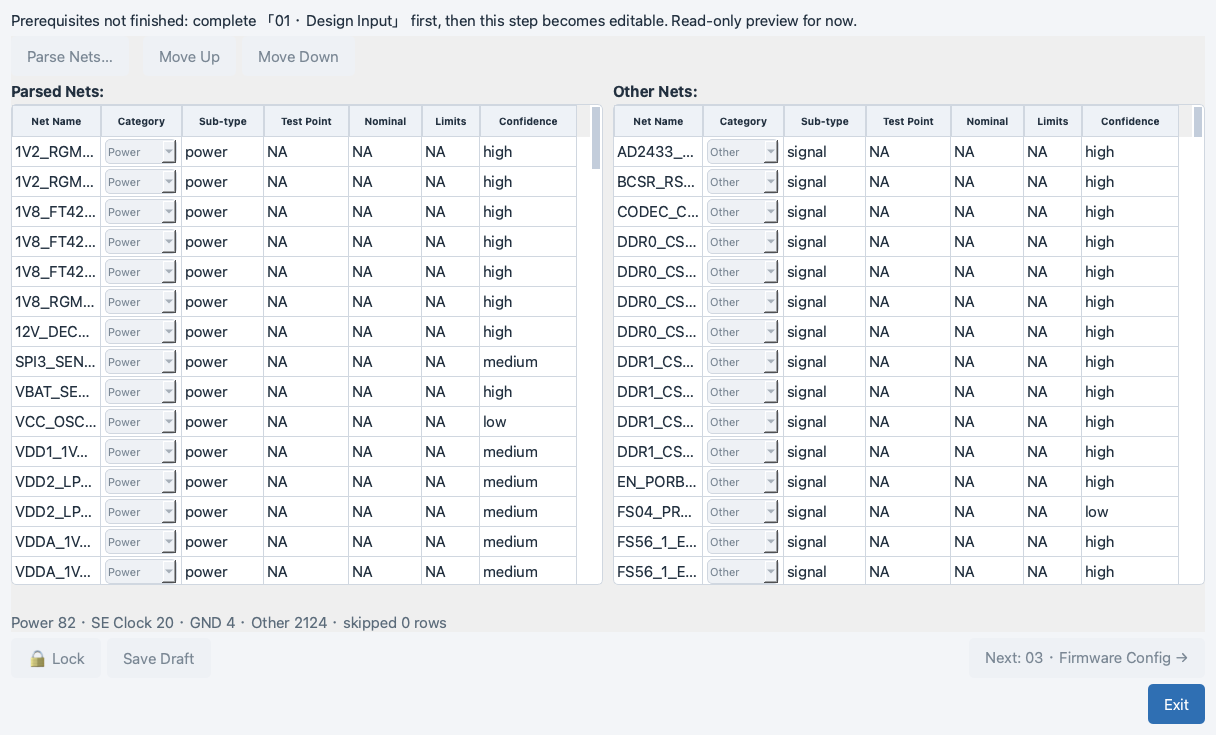
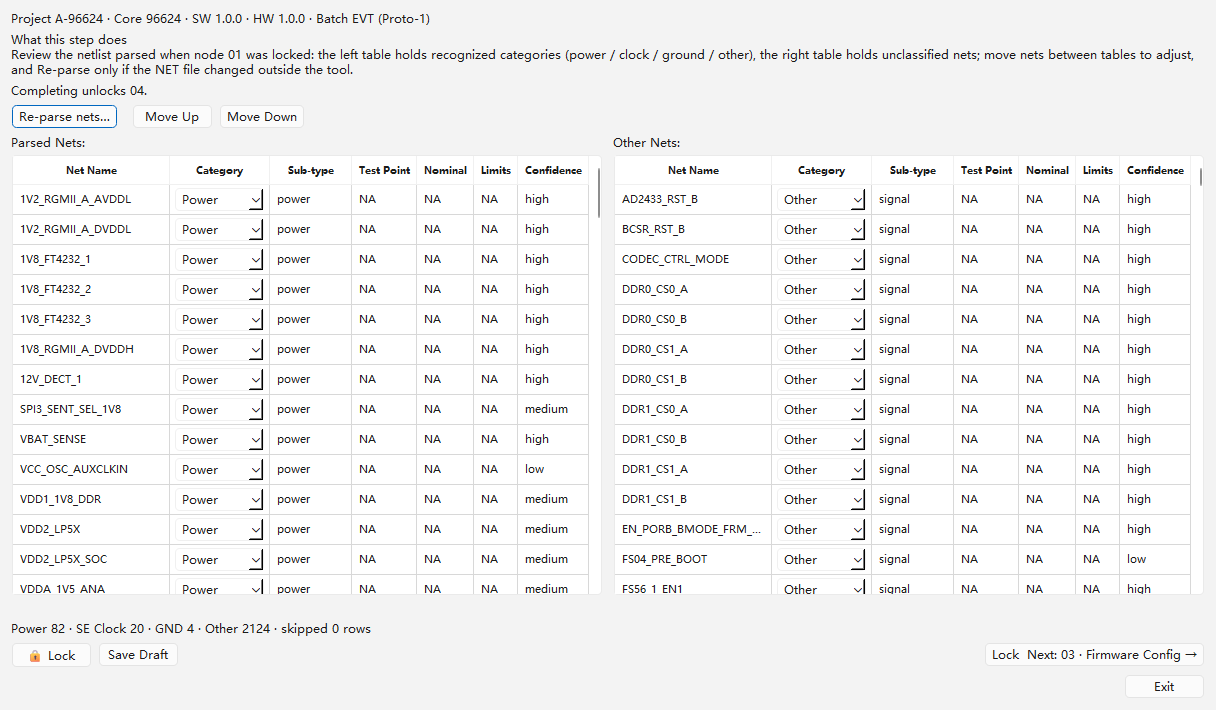
docs: re-shoot node 02 for the help with the M152 layout
Both node 02 images were taken before M139: they showed the read-only
"Prerequisites not finished" banner, a disabled "Parse Nets…", clipped net
names ("1V2_RGM…"), a scroll bar in every table and a footer that offered
"Next: 03" instead of "Lock_Next: 03".  The replacement is a bench
screenshot of the same 96624 project after node 01 was locked: project banner
on top, "Re-parse nets…" live, net names and both label columns rendering
whole, no horizontal bar, columns [157, 100, 82, 65, 57, 44, 71] summing to
the 576 px viewport.

The example chapter also called the button "Parse Nets…" and read as if the
parse were manual - it now says locking node 01 parses, and Re-parse nets…
is for a NET file changed outside the tool.

diff --git a/docs/help/15_example_ict.md b/docs/help/15_example_ict.md
@@ -87,8 +87,9 @@ changes until node 07 writes the YAML.
 
 ## Step 3 - Parse the nets (node 02)
 
-Open **02 - Parse nets for ICT** and press **Parse Nets…**: it re-reads the
-netlist recorded on node 01 and refills both tables.
+Locking node 01 already parsed the netlist, so open **02 - Parse nets for
+ICT** and the two tables are filled: `Re-parse nets…` is there for the case
+where the NET file changed outside the tool.
 
 ![Parse result on 96624, from the netlist alone](images/15_04_parse_result.png)
 
@@ -102,7 +103,7 @@ Power 82 · SE Clock 20 · GND 4 · Other 2124 · skipped 0 rows
   category and confidence. The first rows of this board are
   `1V2_RGMII_A_AVDD…`, `1V2_RGMII_A_DV…`, `1V8_FT4232_1`.
 - **Other Nets** (right table) - everything that landed in `Other`
-  (`AD2433_RST_B`, `BCSR_RST_B`, `DDR0_CS0_A`, …); each row keeps a
+  (`AD2433_RST_B`, `BCSR_RST_B`, `CODEC_CTRL_MODE`, …); each row keeps a
   category dropdown, so a net you disagree with moves buckets without a
   re-parse.
 - **`skipped 0 rows`** - nothing the parser refused; a non-zero value is
